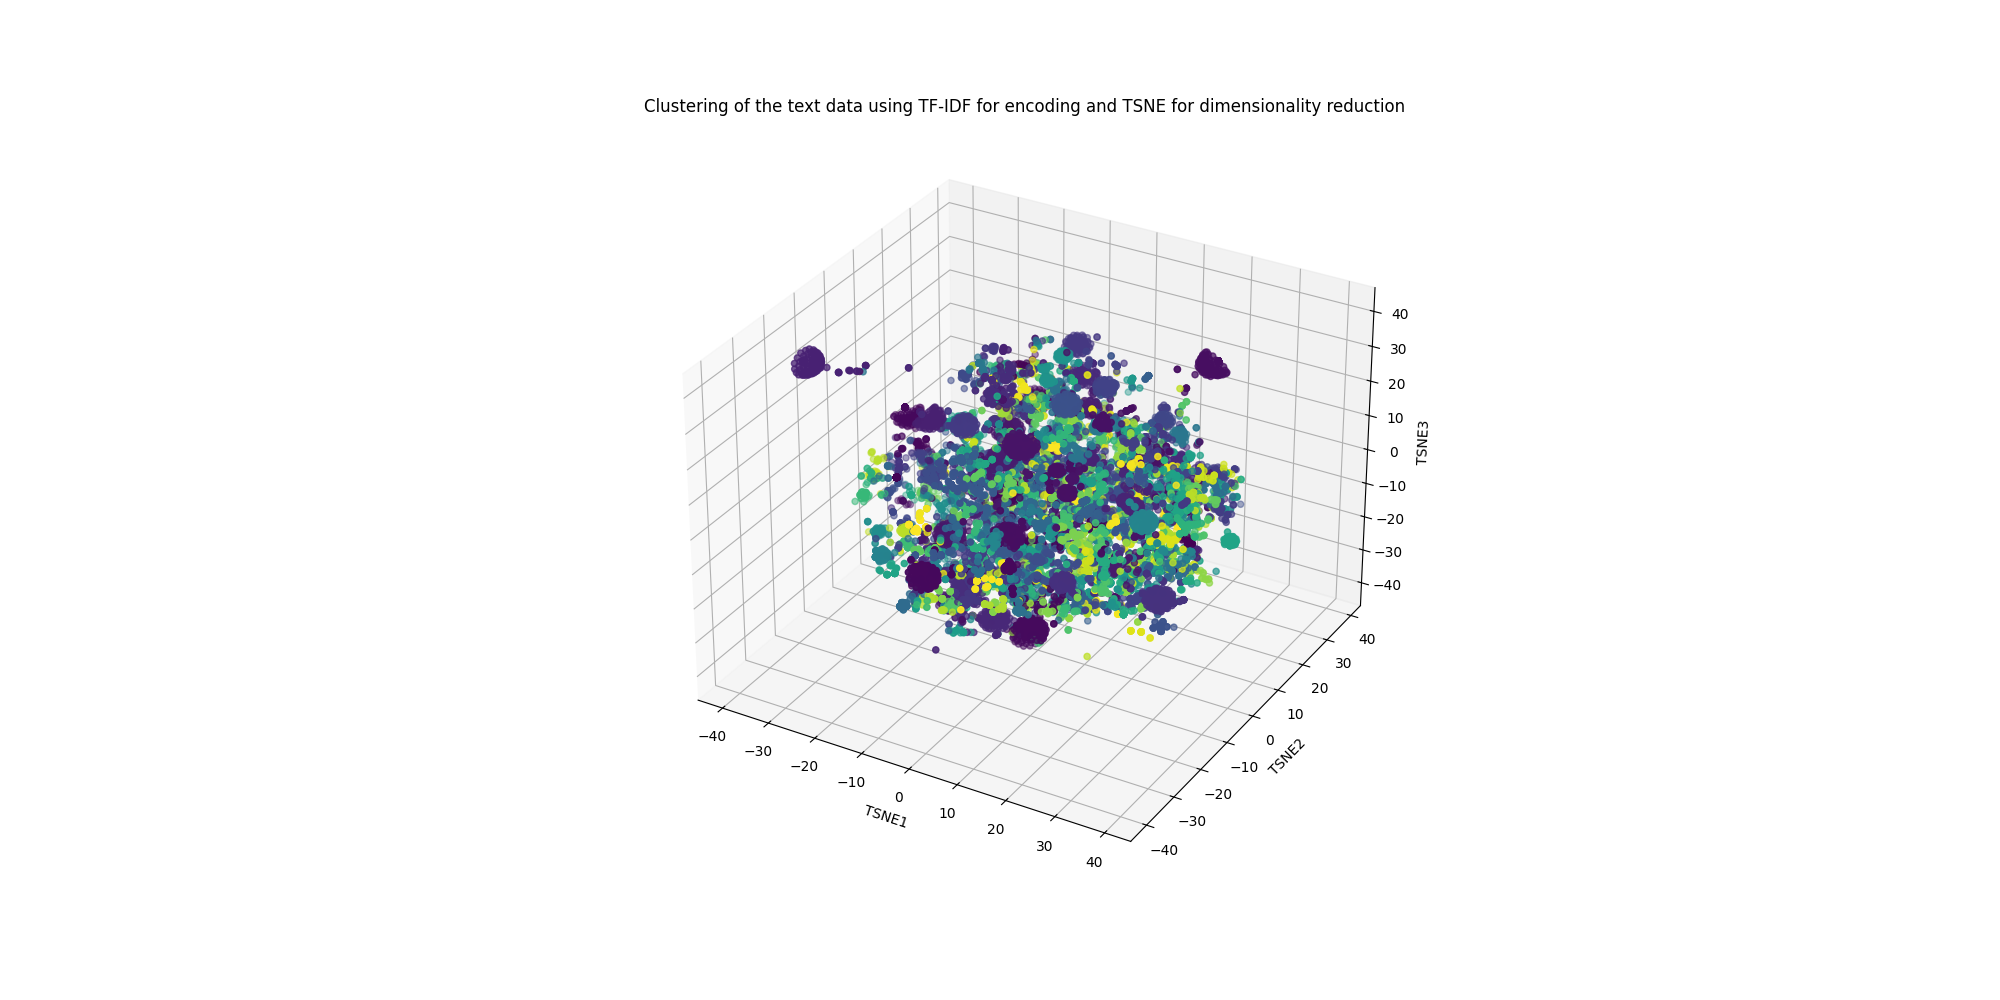
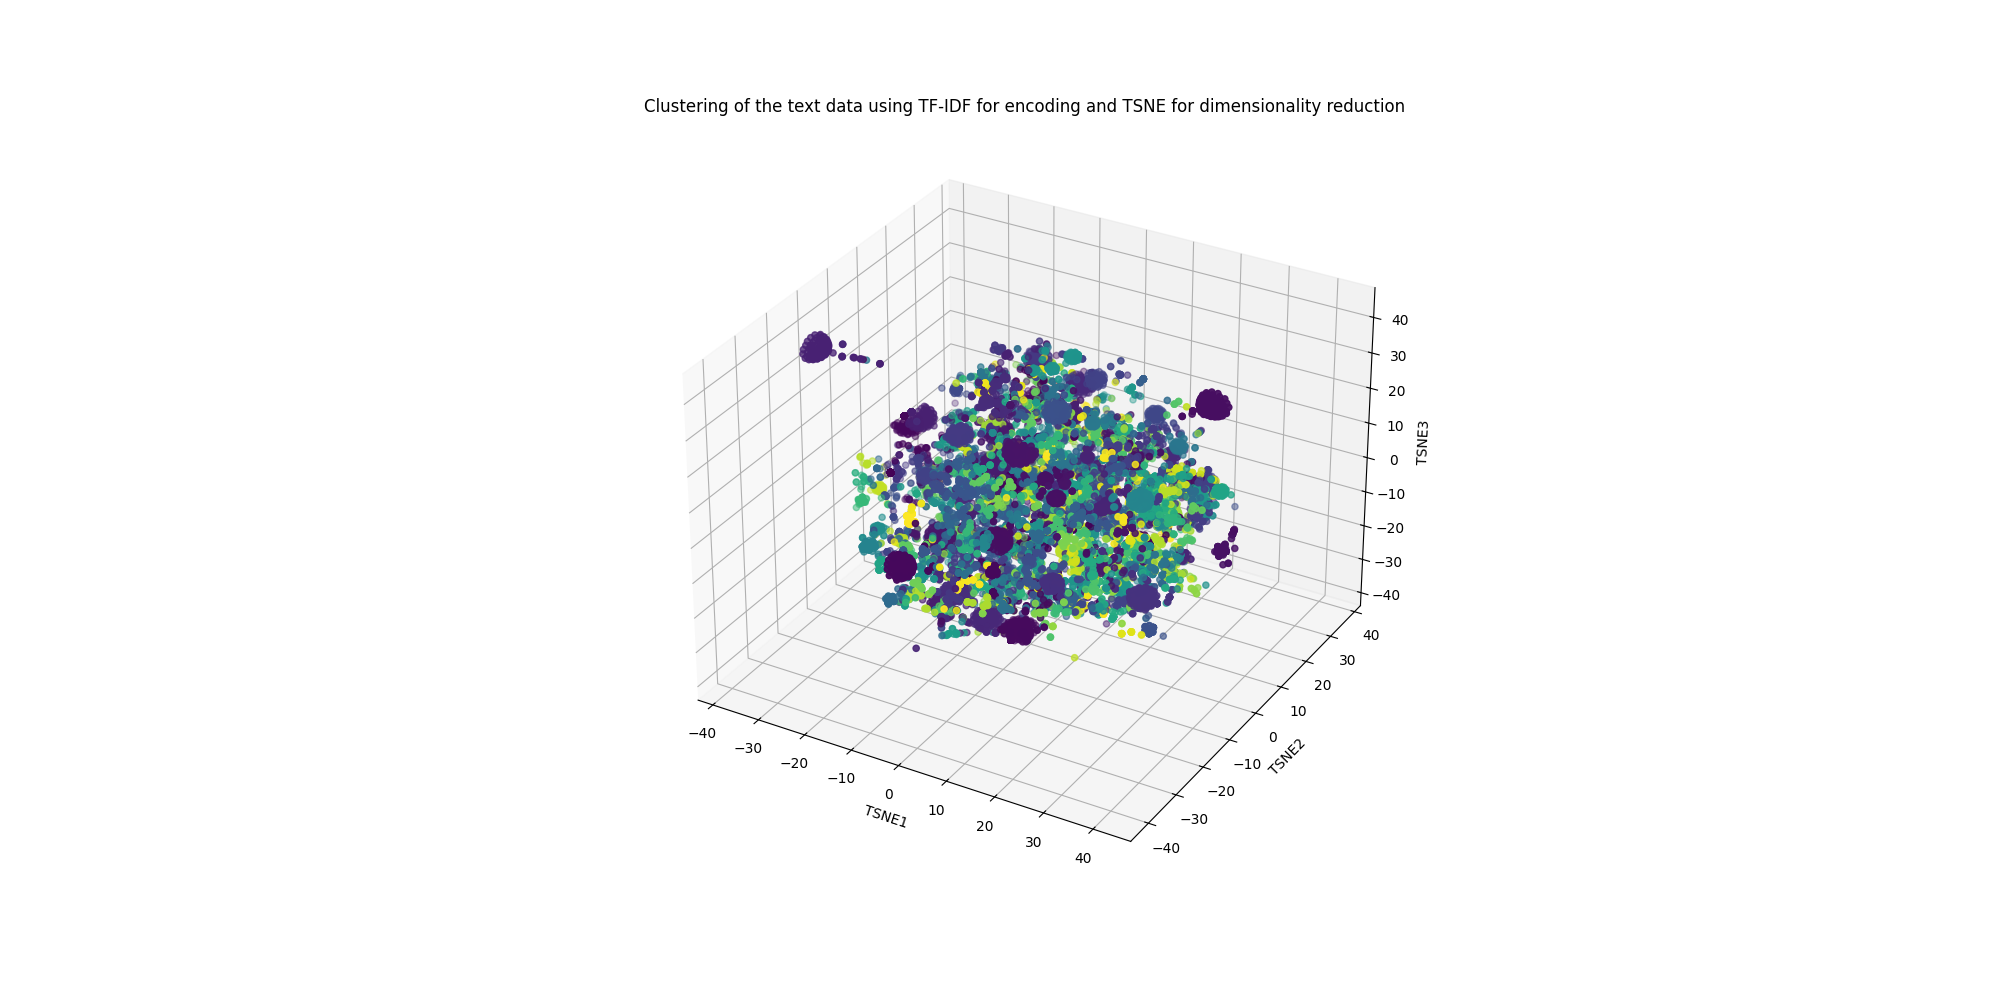
Created Doc2Vec encoding step and executed the pipeline

Changed region(s): [[0.341, 0.186, 0.713, 0.806], [0.465, 0.806, 0.496, 0.837], [0.372, 0.744, 0.403, 0.775]]

diff --git a/src/encoding/doc2vec_encoding.py b/src/encoding/doc2vec_encoding.py
@@ -7,14 +7,138 @@ import multiprocessing
 import concurrent.futures
 
 import pandas as pd
+import mlflow
+from sklearn.cluster import KMeans
+from sklearn.pipeline import Pipeline
 
+from src.encoding.encoders import Doc2VecPreprocessor
+from src.encoding.utils import custom_grid_search, log_to_mlflow, generate_unsupervised_report
+from src.preprocessing.utils import pre_process_text_spacy
 from src.utils import load_config, get_logger, load_data, save_data
 
 
 def doc2vec_encoding(
     env: str,
+    input_data: str,
+    input_corpus: str,
+    output_doc2vec_encoded_data: str,
 ) -> None:
-    pass
+    config = load_config(file_name="config", env=env)
+    processing_config = load_config(file_name="processing_config", env=env)
+    training_config = load_config(file_name="training_config", env=env)
+    logger = get_logger(config)
+
+    mlflow.set_tracking_uri(training_config.mlflow.tracking_uri)
+
+    logger.info(f"--------------------------------------------------")
+    logger.info(f"Start Doc2Vec encoding in {env} environment")
+
+    # Load preprocessed data
+    logger.info(f"Load corpus data")
+    preprocessed_data = load_data(
+        data_path=input_data,
+        step_config=processing_config.processing.preprocessed_data,
+    )
+    corpus_data = load_data(
+        data_path=input_corpus,
+        step_config=processing_config.processing.corpus,
+    )
+
+    logger.info("Preprocess corpus data")
+    corpus_data["processed_text"] = pre_process_text_spacy(
+        corpus_data["text_to_analyse"].values,
+        **processing_config.processing["tokenizer"],
+    )
+
+    corpus_data = corpus_data[
+        (corpus_data["processed_text"].notnull())
+        & (corpus_data["processed_text"] != "")
+    ]
+
+    X = corpus_data["processed_text"].values
+
+    # Create a pipeline to perform the Doc2Vec encoding
+    pipeline = Pipeline(
+        [
+            (training_config.training.doc2vec.processor, Doc2VecPreprocessor()),
+            (
+                training_config.training.doc2vec.model,
+                KMeans(random_state=training_config.training.random_state),
+            ),
+        ]
+    )
+
+    parameters = {
+        f"{training_config.training.doc2vec.processor}__dm": training_config.training.doc2vec.dm,
+        f"{training_config.training.doc2vec.processor}__vector_size": training_config.training.doc2vec.vector_size,
+        f"{training_config.training.doc2vec.processor}__epochs": training_config.training.doc2vec.epochs,
+        f"{training_config.training.doc2vec.processor}__min_count": training_config.training.doc2vec.min_count,
+        f"{training_config.training.doc2vec.processor}__sample": training_config.training.doc2vec.sample,
+        f"{training_config.training.doc2vec.processor}__workers": [multiprocessing.cpu_count()],
+        f"{training_config.training.doc2vec.processor}__negative": training_config.training.doc2vec.negative,
+        f"{training_config.training.doc2vec.processor}__seed": [training_config.training.random_state],
+        f"{training_config.training.doc2vec.processor}__hs": training_config.training.doc2vec.hs,
+        f"{training_config.training.doc2vec.model}__n_clusters": training_config.training.doc2vec.n_clusters,
+    }
+
+    # Fit the pipeline
+    logger.info("Fit the pipeline")
+    best_params, best_score, best_estimator = custom_grid_search(
+        pipeline=pipeline, parameters=parameters, X=X
+    )
+
+    log_to_mlflow(
+        run_name="Doc2Vec encoding",
+        params=best_params,
+        metrics={"mean_test_score": best_score},
+        model_name="Doc2Vec encoding",
+        model=None,
+        artifacts=None,
+        model_type="gensim",
+        experiment_name="Doc2Vec encoding",
+        tracking_uri=training_config.mlflow.tracking_uri,
+    )
+
+    # Transform the data
+    logger.info("Transform the data")
+    # Add the cluster to the dataset
+    vector = best_estimator.named_steps[
+        training_config.training.doc2vec.processor
+    ].transform(X)
+    vector_df = pd.DataFrame(
+        vector, columns=[f"vector_{i}" for i in range(vector.shape[1])]
+    )
+
+    # Concatenate the vectors with the original data
+    preprocessed_data = pd.concat(
+        objs=[
+            preprocessed_data[["codigo", "id_pieza"]].reset_index(drop=True),
+            vector_df.reset_index(drop=True),
+        ],
+        axis=1,
+    )
+
+    preprocessed_data["cluster"] = best_estimator.named_steps[
+        training_config.training.doc2vec.model
+    ].predict(vector)
+
+    logger.info(f"Generating results report")
+    # Generate a report
+    generate_unsupervised_report(
+        env=env,
+        data=preprocessed_data,
+        model_name="Doc2Vec",
+        dim_reduction_model=["PCA", "TSNE"],
+        clustering=True,
+        most_common_words=False,
+    )
+
+    # Save the data
+    logger.info(f"Save the data")
+    save_data(
+        data=preprocessed_data,
+        output_path=output_doc2vec_encoded_data,
+    )
 
 
 if __name__ == "__main__":
@@ -25,9 +149,27 @@ if __name__ == "__main__":
         help="Environment to preprocess the data from",
         default="dev",
     )
+    parser.add_argument(
+        "--input-data",
+        type=str,
+        help="Path to the input preprocessed data",
+    )
+    parser.add_argument(
+        "--input-corpus",
+        type=str,
+        help="Path to the input corpus",
+    )
+    parser.add_argument(
+        "--output-doc2vec-encoded-data",
+        type=str,
+        help="Path to save the output corpus",
+    )
 
     args = parser.parse_args()
 
     doc2vec_encoding(
         env=args.env,
+        input_data=args.input_data,
+        input_corpus=args.input_corpus,
+        output_doc2vec_encoded_data=args.output_doc2vec_encoded_data,
     )

diff --git a/src/encoding/encoders.py b/src/encoding/encoders.py
@@ -1,3 +1,6 @@
+import numpy as np
+import pandas as pd
+from gensim.models.doc2vec import TaggedDocument, Doc2Vec
 from sklearn.feature_extraction.text import TfidfVectorizer
 import string
 
@@ -9,9 +12,9 @@ class TfIdfPreprocessor:
     """
 
     def __init__(
-        self,
-        min_df=0.01,
-        max_df=0.99,
+            self,
+            min_df=0.01,
+            max_df=0.99,
     ):
         self.min_df = min_df
         self.max_df = max_df
@@ -48,6 +51,120 @@ class TfIdfPreprocessor:
         return {
             "min_df": self.min_df,
             "max_df": self.max_df,
+        }
+
+    def set_params(self, **params):
+        """
+        Set the parameters of this estimator
+        """
+        for key, value in params.items():
+            setattr(self, key, value)
+        return self
+
+
+class Doc2VecPreprocessor:
+    """
+    Class for encode text data using the Doc2Vec method
+    This class is intended to be used as a transformer in the sklearn pipeline
+    """
+
+    def __init__(
+            self,
+            dm=0,
+            vector_size=100,
+            epochs=10,
+            min_count=1,
+            workers=4,
+            sample=0,
+            negative=5,
+            seed=0,
+            hs=0,
+            custom_tokenizer=None,
+    ):
+        self.dm = dm
+        self.vector_size = vector_size
+        self.epochs = epochs
+        self.min_count = min_count
+        self.workers = workers
+        self.sample = sample
+        self.negative = negative
+        self.hs = hs
+        self.seed = seed
+        self.custom_tokenizer = custom_tokenizer
+        self.model = None
+
+    def fit(self, X, y=None):
+        """
+        Fit the model to the text data
+        """
+        self.model = Doc2Vec(
+            dm=self.dm,
+            vector_size=self.vector_size,
+            epochs=self.epochs,
+            min_count=self.min_count,
+            workers=self.workers,
+            sample=self.sample,
+            negative=self.negative,
+            hs=self.hs,
+            seed=self.seed,
+        )
+
+        if self.custom_tokenizer:
+            tagged_data = [
+                TaggedDocument(words=self.custom_tokenizer(doc), tags=[i])
+                for i, doc in enumerate(X)
+            ]
+        else:
+            tagged_data = [
+                TaggedDocument(words=doc.split(), tags=[i]) for i, doc in enumerate(X)
+            ]
+
+        self.model.build_vocab(tagged_data)
+        self.model.train(
+            tagged_data,
+            total_examples=self.model.corpus_count,
+            epochs=self.model.epochs,
+        )
+
+        return self
+
+    def transform(self, X, y=None):
+        """
+        Transform the text data using the fitted model
+        :param X: List of strings, a single string, or other compatible types.
+        :return: List of vectors for each document
+        """
+        if isinstance(X, pd.Series):
+            X = X.tolist()
+        elif isinstance(X, np.ndarray):
+            X = X.tolist()
+        elif isinstance(X, str):
+            X = [X]
+
+        if not isinstance(X, list) or not all(isinstance(doc, str) for doc in X):
+            raise ValueError("Input must be a list of strings or a single string.")
+
+        # Transform each document to a vector
+        return np.array(
+            [self.model.infer_vector(doc.split()) for doc in X]
+            if self.custom_tokenizer
+            else [self.model.infer_vector(doc.split()) for doc in X]
+        )
+
+    def get_params(self, deep=True):
+        """
+        Get parameters for this estimator
+        """
+        return {
+            "dm": self.dm,
+            "vector_size": self.vector_size,
+            "epochs": self.epochs,
+            "min_count": self.min_count,
+            "workers": self.workers,
+            "sample": self.sample,
+            "negative": self.negative,
+            "hs": self.hs,
+            "seed": self.seed,
         }
 
     def set_params(self, **params):

diff --git a/src/encoding/utils.py b/src/encoding/utils.py
@@ -86,6 +86,8 @@ def log_to_mlflow(
                 mlflow.pytorch.log_model(model, artifact_path=model_type)
             elif model_type == "xgboost":
                 mlflow.xgboost.log_model(model, artifact_path=model_type)
+            else:
+                raise ValueError(f"Model type {model_type} not supported")
 
             # Register the model in the Model Registry with a specific name
             model_uri = f"runs:/{run.info.run_id}/{model_type}"
@@ -121,6 +123,9 @@ def generate_unsupervised_report(
 
     report_folder_path = f"reports/{env}/{model_name}"
     os.makedirs(report_folder_path, exist_ok=True)
+
+    if most_common_words:
+        raise NotImplementedError("Most common words not implemented yet")
 
     if clustering:
         vector_df = data.drop(columns=["cluster", "codigo", "id_pieza"])

diff --git a/generate_dvc_pipeline.py b/generate_dvc_pipeline.py
@@ -119,6 +119,7 @@ def create_dvc_pipeline(env="dev"):
         f"-d src/encoding/doc2vec_encoding.py "
         f"-o output_data/{env}/doc2vec_encoded_data.csv "
         f"python -m src.encoding.doc2vec_encoding --env {env} "
+        f"--input-data output_data/{env}/preprocessed_data.csv "
         f"--input-corpus output_data/{env}/corpus.csv "
         f"--output-doc2vec-encoded-data output_data/{env}/doc2vec_encoded_data.csv"
     )
